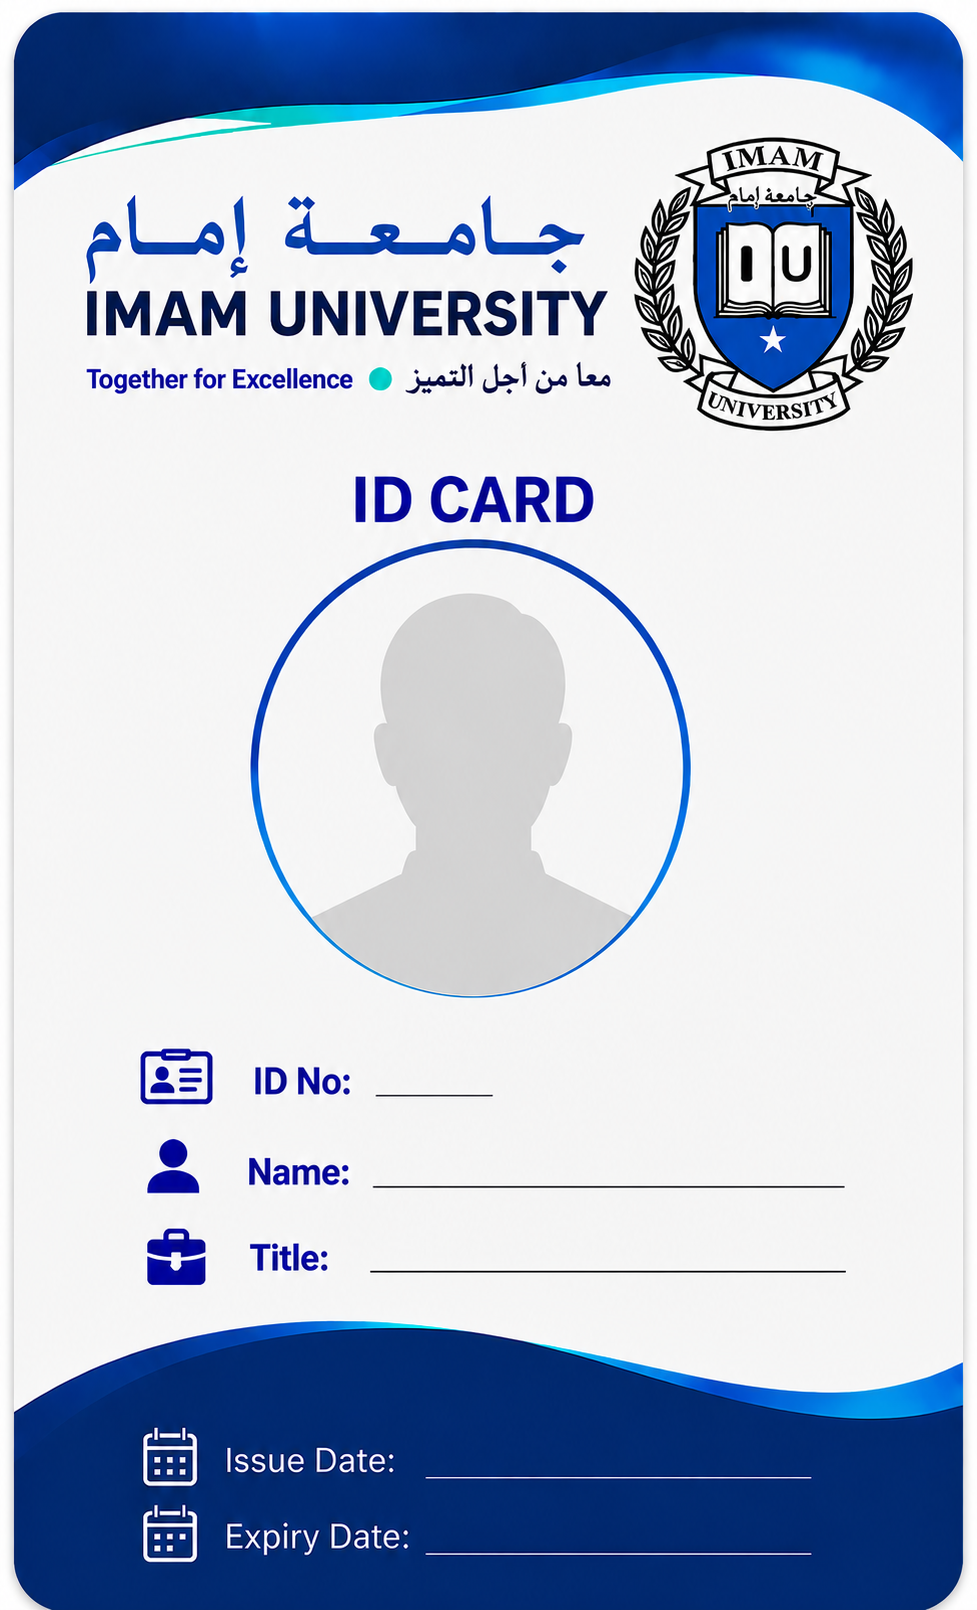
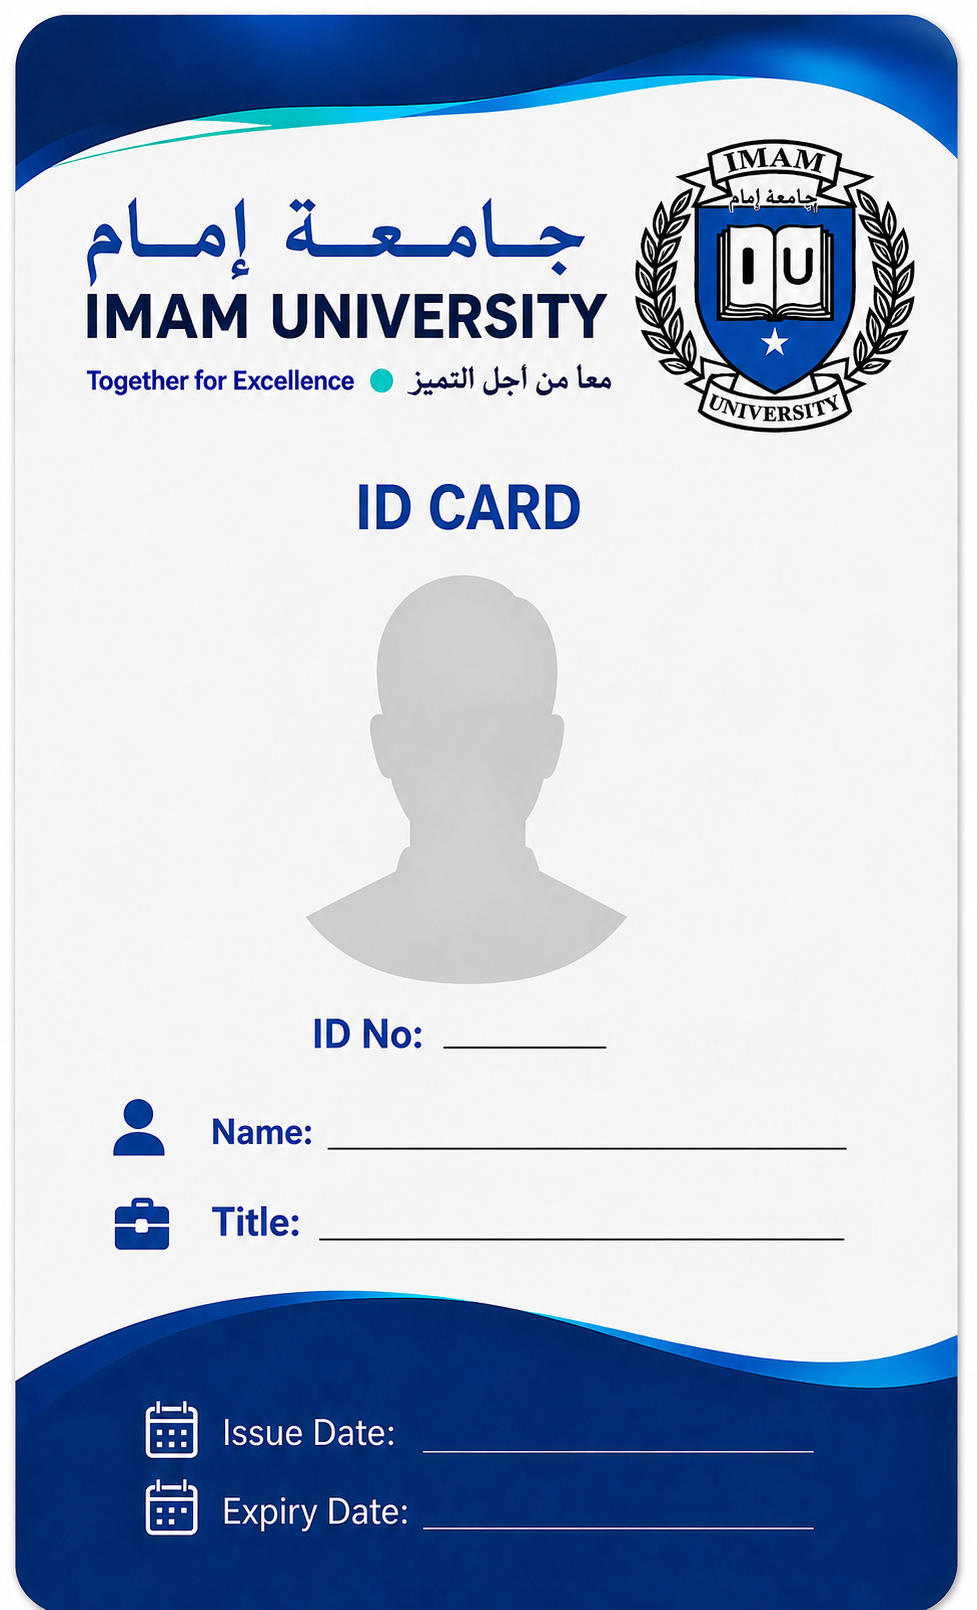
Update project

diff --git a/templates/create_id_card.html b/templates/create_id_card.html
@@ -79,9 +79,9 @@ body{ font-family:Arial,sans-serif; background:#eef1f5; margin:0; padding:20px; 
 }
 .idcard img.base{ width:100%; display:block; }
 
-/* ===== Photo circle — booska iyo size-ka la saxay si sawirku uu ku dhex fadhiisto oval-ka asalka ah ee card-ka ===== */
+/* ===== Photo circle — booska iyo size-ka la xaqiijiyay si sax ah oo la beegsaday sawirka asalka ah (725x1195px) ===== */
 .photoCircle{
-    position:absolute; top:29.5%; left:29%; width:42%; height:24.5%;
+    position:absolute; top:33.10%; left:26.55%; width:42.76%; height:25.94%;
     border-radius:50%; overflow:hidden;
     background:transparent; display:flex; align-items:center; justify-content:center;
 }
@@ -96,15 +96,13 @@ body{ font-family:Arial,sans-serif; background:#eef1f5; margin:0; padding:20px; 
 }
 .photoCircle .placeholder{ color:#aaa; font-size:11px; }
 
-/* ===== Overlaid text fields — booska sax ah oo la beegsaday xariiqaha "ID No / Name / Title / Issue / Expiry" ===== */
-.ov{ position:absolute; font-weight:800; color:#1a1a2e; user-select:none; padding:2px 6px; cursor:move; }
-.ov:hover{ outline:1px dashed #1a5fb4; background:rgba(26,95,180,.06); }
-.ov.dragging{ outline:2px dashed #e17055; background:rgba(225,112,85,.12); z-index:50; }
-.ov-idno{ top:60.2%; left:26%; width:22%; font-size:13px; text-align:left; }
-.ov-name{ top:65.9%; left:26%; width:64%; font-size:12.5px; text-align:left; white-space:nowrap; overflow:hidden; text-overflow:ellipsis; }
-.ov-title{ top:71.6%; left:26%; width:64%; font-size:12.5px; text-align:left; }
-.ov-issue{ top:85.6%; left:32%; width:55%; font-size:12px; text-align:left; color:#fff; }
-.ov-expiry{ top:90.6%; left:32%; width:55%; font-size:12px; text-align:left; color:#fff; }
+/* ===== Overlaid text fields — booska sax ah, size la yareeyay, dragging la saaray ===== */
+.ov{ position:absolute; font-weight:800; color:#1a1a2e; user-select:none; padding:2px 6px; }
+.ov-idno{ top:61.9%; left:50%; width:22%; font-size:13px; text-align:left; }
+.ov-name{ top:68.2%; left:27%; width:68%; font-size:10.5px; text-align:center; white-space:nowrap; overflow:hidden; text-overflow:ellipsis; }
+.ov-title{ top:73.9%; left:38%; width:60%; font-size:11.5px; text-align:left; }
+.ov-issue{ top:86.3%; left:44%; width:50%; font-size:12px; text-align:left; color:#fff; }
+.ov-expiry{ top:91.1%; left:44%; width:45%; font-size:12px; text-align:left; color:#fff; }
 
 /* ===== History panel — card-ka waa mini-preview (front image + overlays) sax ah, maaha sawirka qofka oo keliya ===== */
 .history{
@@ -141,15 +139,15 @@ body{ font-family:Arial,sans-serif; background:#eef1f5; margin:0; padding:20px; 
 }
 .miniCard img.miniBase{ width:100%; height:100%; object-fit:cover; display:block; }
 .miniPhoto{
-    position:absolute; top:29.5%; left:29%; width:42%; height:24.5%;
+    position:absolute; top:33.10%; left:26.55%; width:42.76%; height:25.94%;
     border-radius:50%; overflow:hidden; background:#ddd;
     clip-path: circle(50% at 50% 50%);
 }
 .miniPhoto img{ width:100%; height:100%; object-fit:cover; display:block; border-radius:50%; }
 .miniOv{ position:absolute; font-weight:800; color:#1a1a2e; white-space:nowrap; overflow:hidden; text-overflow:ellipsis; }
-.miniOv-idno{ top:60.2%; left:26%; width:22%; font-size:3.6px; text-align:left; }
-.miniOv-name{ top:65.9%; left:26%; width:64%; font-size:3.6px; text-align:left; }
-.miniOv-title{ top:71.6%; left:26%; width:64%; font-size:3.2px; text-align:left; }
+.miniOv-idno{ top:61.9%; left:50%; width:22%; font-size:3.6px; text-align:left; }
+.miniOv-name{ top:68.2%; left:27%; width:69%; font-size:2.9px; text-align:center; }
+.miniOv-title{ top:73.9%; left:38%; width:60%; font-size:3.2px; text-align:left; }
 
 .cardRow .info{ flex:1; min-width:0; }
 .cardRow .info b{ display:block; font-size:14.5px; }
@@ -254,7 +252,6 @@ body{ font-family:Arial,sans-serif; background:#eef1f5; margin:0; padding:20px; 
             </select>
         </div>
         <button type="button" class="btn pr" onclick="printCard()">🖨 Print</button>
-        <button type="button" class="btn pr" onclick="resetPositions()">↺ Reset Positions</button>
     </div>
     <div class="msg" id="saveMsg"></div>
 </div>
@@ -611,100 +608,6 @@ async function markPrinted(docId){
         }
     } catch(e){}
 }
-
-/* ===== DRAG TO REPOSITION — kaliya .ov elements-ka (ID No, Name, Title, Issue, Expiry).
-   Guji oo jiid qoraalka si aad meesha ugu beddesho gacanta, booskana wuu is-keydiyaa (localStorage)
-   si mar kasta oo bogga la furo ay ku sii jiraan meesha aad dooratay. Wax kale lagama taaban. ===== */
-const OV_IDS = ["outIdNo","outName","outTitle","outIssue","outExpiry"];
-const OV_POS_KEY = "idcard_ov_positions_v1";
-
-function loadSavedPositions(){
-    try{
-        const saved = JSON.parse(localStorage.getItem(OV_POS_KEY) || "{}");
-        OV_IDS.forEach(id=>{
-            const el = document.getElementById(id);
-            if(el && saved[id]){
-                el.style.top = saved[id].top;
-                el.style.left = saved[id].left;
-            }
-        });
-    }catch(e){}
-}
-
-function savePosition(id, top, left){
-    try{
-        const saved = JSON.parse(localStorage.getItem(OV_POS_KEY) || "{}");
-        saved[id] = { top, left };
-        localStorage.setItem(OV_POS_KEY, JSON.stringify(saved));
-    }catch(e){}
-}
-
-function resetPositions(){
-    try{ localStorage.removeItem(OV_POS_KEY); }catch(e){}
-    OV_IDS.forEach(id=>{
-        const el = document.getElementById(id);
-        if(el){ el.style.top = ""; el.style.left = ""; }
-    });
-    showMsg("Boosaska waa la reset gareeyay ✅", true);
-}
-
-function makeDraggable(el){
-    const card = document.getElementById("idcardFront");
-    let dragging = false, startX = 0, startY = 0, startTopPx = 0, startLeftPx = 0;
-
-    function onDown(clientX, clientY){
-        const cardRect = card.getBoundingClientRect();
-        const elRect = el.getBoundingClientRect();
-        dragging = true;
-        el.classList.add("dragging");
-        startX = clientX;
-        startY = clientY;
-        startTopPx = elRect.top - cardRect.top;
-        startLeftPx = elRect.left - cardRect.left;
-    }
-
-    function onMove(clientX, clientY){
-        if(!dragging) return;
-        const card = document.getElementById("idcardFront");
-        const cardRect = card.getBoundingClientRect();
-        const dx = clientX - startX;
-        const dy = clientY - startY;
-        let newTopPx = startTopPx + dy;
-        let newLeftPx = startLeftPx + dx;
-        const newTopPct = (newTopPx / cardRect.height) * 100;
-        const newLeftPct = (newLeftPx / cardRect.width) * 100;
-        el.style.top = newTopPct.toFixed(2) + "%";
-        el.style.left = newLeftPct.toFixed(2) + "%";
-    }
-
-    function onUp(){
-        if(!dragging) return;
-        dragging = false;
-        el.classList.remove("dragging");
-        savePosition(el.id, el.style.top, el.style.left);
-    }
-
-    el.addEventListener("mousedown", e=>{ e.preventDefault(); onDown(e.clientX, e.clientY); });
-    document.addEventListener("mousemove", e=>{ onMove(e.clientX, e.clientY); });
-    document.addEventListener("mouseup", onUp);
-
-    el.addEventListener("touchstart", e=>{
-        const t = e.touches[0];
-        onDown(t.clientX, t.clientY);
-    }, { passive:true });
-    document.addEventListener("touchmove", e=>{
-        if(!dragging) return;
-        const t = e.touches[0];
-        onMove(t.clientX, t.clientY);
-    }, { passive:true });
-    document.addEventListener("touchend", onUp);
-}
-
-OV_IDS.forEach(id=>{
-    const el = document.getElementById(id);
-    if(el) makeDraggable(el);
-});
-loadSavedPositions();
 
 liveUpdate();
 loadCards();
